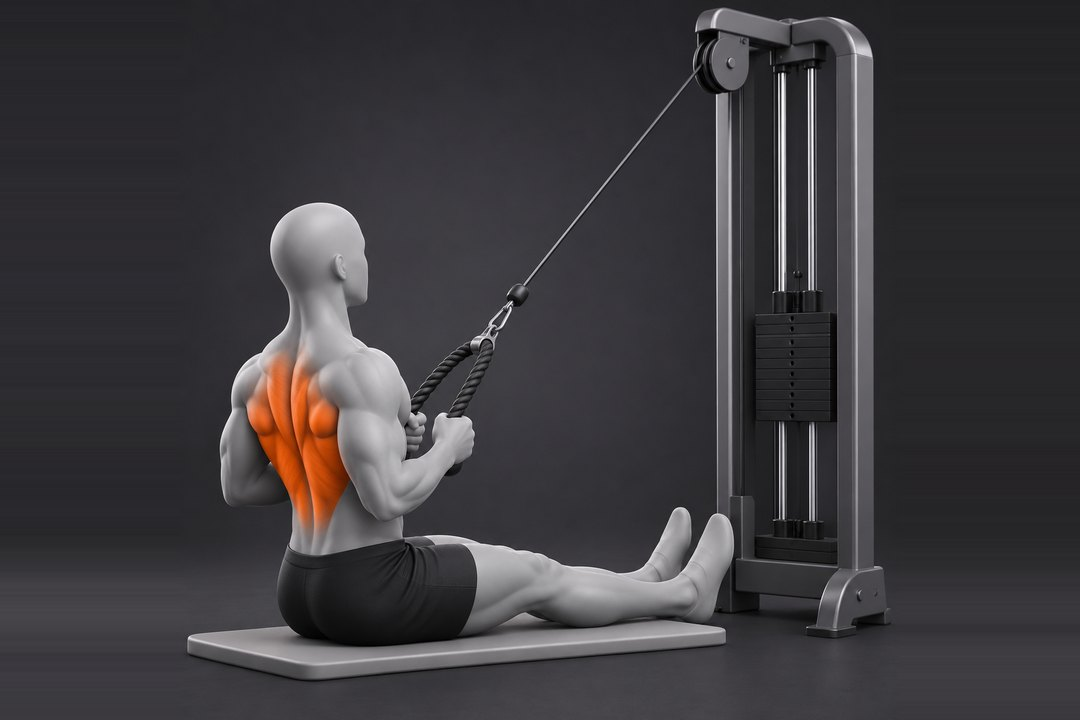
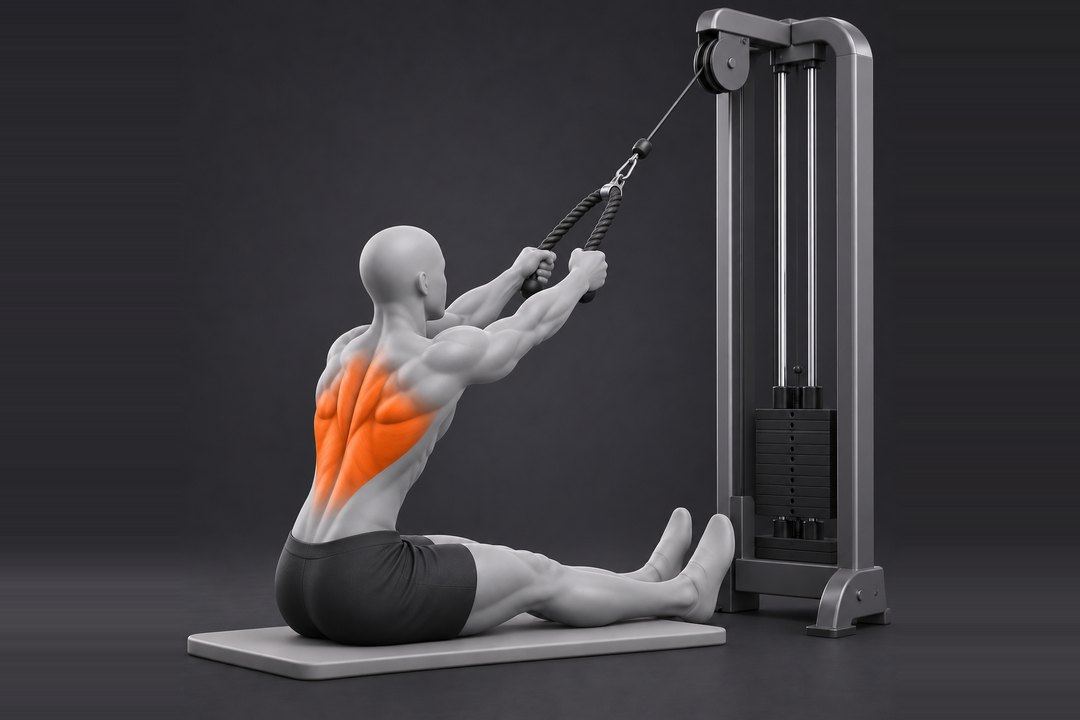
Jalón con cuerda: ilustración de la posición de inicio
Claude-Session: https://claude.ai/code/session_01CgfkCyKfkoBpyhTx3HiWJp

diff --git a/sw.js b/sw.js
@@ -1,7 +1,7 @@
 /* Service worker de Mis rutinas. Generado por tools/build-sw.js: no editar a mano.
    Precachea la app completa (código, fuentes, íconos e imágenes del catálogo) para que funcione sin conexión. */
 'use strict';
-var VERSION = 'e1f00c6b325e';
+var VERSION = '945aa8541f12';
 var CACHE = 'mis-rutinas-' + VERSION;
 var ARCHIVOS = ["index.html","app.css","app.js","runtime.js","ciclo.js","progresion.js","cronometro.js","manifest.webmanifest","fonts/archivo-latin-400-normal.woff2","fonts/archivo-latin-500-normal.woff2","fonts/archivo-latin-600-normal.woff2","fonts/archivo-latin-700-normal.woff2","fonts/archivo-latin-800-normal.woff2","fonts/archivo.css","icons/apple-touch-icon.png","icons/icon-192.png","icons/icon-512.png","icons/icon-maskable-512.png","img/abductora.jpg","img/abductora_0.jpg","img/abductora_1.jpg","img/aperturas.jpg","img/aperturas_0.jpg","img/aperturas_1.jpg","img/aperturasmanc.jpg","img/aperturasmanc_0.jpg","img/aperturasmanc_1.jpg","img/arnold.jpg","img/arnold_0.jpg","img/arnold_1.jpg","img/banca.jpg","img/banca_0.jpg","img/banca_1.jpg","img/bancacerrado.jpg","img/bancacerrado_0.jpg","img/bancacerrado_1.jpg","img/bancamanc.jpg","img/bancamanc_0.jpg","img/bancamanc_1.jpg","img/bici.jpg","img/bici_0.jpg","img/bici_1.jpg","img/buenosdias.jpg","img/buenosdias_0.jpg","img/buenosdias_1.jpg","img/bulgara.jpg","img/bulgara_0.jpg","img/bulgara_1.jpg","img/caminadora.jpg","img/caminadora_0.jpg","img/caminadora_1.jpg","img/correr.jpg","img/correr_0.jpg","img/correr_1.jpg","img/crunch.jpg","img/crunch_0.jpg","img/crunch_1.jpg","img/crunchpolea.jpg","img/crunchpolea_0.jpg","img/crunchpolea_1.jpg","img/curlbarra.jpg","img/curlbarra_0.jpg","img/curlbarra_1.jpg","img/curlcuerda.jpg","img/curlcuerda_0.jpg","img/curlcuerda_1.jpg","img/curlmanc.jpg","img/curlmanc_0.jpg","img/curlmanc_1.jpg","img/curlpolea.jpg","img/curlpolea_0.jpg","img/curlpolea_1.jpg","img/deadbug.jpg","img/deadbug_0.jpg","img/deadbug_1.jpg","img/dividida.jpg","img/dividida_0.jpg","img/dividida_1.jpg","img/dominadas.jpg","img/dominadas_0.jpg","img/dominadas_1.jpg","img/elevcolgado.jpg","img/elevcolgado_0.jpg","img/elevcolgado_1.jpg","img/elevpiernas.jpg","img/elevpiernas_0.jpg","img/elevpiernas_1.jpg","img/eliptica.jpg","img/eliptica_0.jpg","img/eliptica_1.jpg","img/escaladora.jpg","img/escaladora_0.jpg","img/escaladora_1.jpg","img/extcuad.jpg","img/extcuad_0.jpg","img/extcuad_1.jpg","img/extcuerda.jpg","img/extcuerda_0.jpg","img/extcuerda_1.jpg","img/extnuca.jpg","img/extnuca_0.jpg","img/extnuca_1.jpg","img/extpolea.jpg","img/extpolea_0.jpg","img/extpolea_1.jpg","img/facepull.jpg","img/facepull_0.jpg","img/facepull_1.jpg","img/femoral.jpg","img/femoral_0.jpg","img/femoral_1.jpg","img/femoralsent.jpg","img/femoralsent_0.jpg","img/femoralsent_1.jpg","img/flexdeclinadas.jpg","img/flexdeclinadas_0.jpg","img/flexdeclinadas_1.jpg","img/flexiones.jpg","img/flexiones_0.jpg","img/flexiones_1.jpg","img/fondos.jpg","img/fondos_0.jpg","img/fondos_1.jpg","img/fondosbanco.jpg","img/fondosbanco_0.jpg","img/fondosbanco_1.jpg","img/frances.jpg","img/frances_0.jpg","img/frances_1.jpg","img/frontal.jpg","img/frontal_0.jpg","img/frontal_1.jpg","img/frontales.jpg","img/frontales_0.jpg","img/frontales_1.jpg","img/goblet.jpg","img/goblet_0.jpg","img/goblet_1.jpg","img/hack.jpg","img/hack_0.jpg","img/hack_1.jpg","img/hiperext.jpg","img/hiperext_0.jpg","img/hiperext_1.jpg","img/hipthrust.jpg","img/hipthrust_0.jpg","img/hipthrust_1.jpg","img/inclinado.jpg","img/inclinado_0.jpg","img/inclinado_1.jpg","img/inclinadobarra.jpg","img/inclinadobarra_0.jpg","img/inclinadobarra_1.jpg","img/jalon.jpg","img/jalon_0.jpg","img/jalon_1.jpg","img/jaloncuerda.jpg","img/jaloncuerda_0.jpg","img/jaloncuerda_1.jpg","img/laterales.jpg","img/laterales_0.jpg","img/laterales_1.jpg","img/lazo.jpg","img/lazo_0.jpg","img/lazo_1.jpg","img/martillo.jpg","img/martillo_0.jpg","img/martillo_1.jpg","img/militar.jpg","img/militar_0.jpg","img/militar_1.jpg","img/pajaros.jpg","img/pajaros_0.jpg","img/pajaros_1.jpg","img/pantorrilla.jpg","img/pantorrilla_0.jpg","img/pantorrilla_1.jpg","img/pantorrillasent.jpg","img/pantorrillasent_0.jpg","img/pantorrillasent_1.jpg","img/patada.jpg","img/patada_0.jpg","img/patada_1.jpg","img/patadatri.jpg","img/patadatri_0.jpg","img/patadatri_1.jpg","img/pecdeck.jpg","img/pecdeck_0.jpg","img/pecdeck_1.jpg","img/pesomuerto.jpg","img/pesomuerto_0.jpg","img/pesomuerto_1.jpg","img/plancha.jpg","img/plancha_0.jpg","img/plancha_1.jpg","img/planchalat.jpg","img/planchalat_0.jpg","img/planchalat_1.jpg","img/pmr.jpg","img/pmr1.jpg","img/pmr1_0.jpg","img/pmr1_1.jpg","img/pmr_0.jpg","img/pmr_1.jpg","img/pmrmanc.jpg","img/pmrmanc_0.jpg","img/pmrmanc_1.jpg","img/predicador.jpg","img/predicador_0.jpg","img/predicador_1.jpg","img/prensa.jpg","img/prensa_0.jpg","img/prensa_1.jpg","img/pressmanc.jpg","img/pressmanc_0.jpg","img/pressmanc_1.jpg","img/puente.jpg","img/puente1p.jpg","img/puente1p_0.jpg","img/puente1p_1.jpg","img/puente_0.jpg","img/puente_1.jpg","img/pullover.jpg","img/pullover_0.jpg","img/pullover_1.jpg","img/pullthrough.jpg","img/pullthrough_0.jpg","img/pullthrough_1.jpg","img/remo.jpg","img/remo_0.jpg","img/remo_1.jpg","img/remoergo.jpg","img/remoergo_0.jpg","img/remoergo_1.jpg","img/remoinclmanc.jpg","img/remoinclmanc_0.jpg","img/remoinclmanc_1.jpg","img/remoinvertido.jpg","img/remoinvertido_0.jpg","img/remoinvertido_1.jpg","img/remomanc.jpg","img/remomanc_0.jpg","img/remomanc_1.jpg","img/remopolea.jpg","img/remopolea_0.jpg","img/remopolea_1.jpg","img/renegade.jpg","img/renegade_0.jpg","img/renegade_1.jpg","img/rueda.jpg","img/rueda_0.jpg","img/rueda_1.jpg","img/russian.jpg","img/russian_0.jpg","img/russian_1.jpg","img/sentadilla.jpg","img/sentadilla_0.jpg","img/sentadilla_1.jpg","img/stepup.jpg","img/stepup_0.jpg","img/stepup_1.jpg","img/trote.jpg","img/trote_0.jpg","img/trote_1.jpg","img/zancadaatras.jpg","img/zancadaatras_0.jpg","img/zancadaatras_1.jpg","img/zancadas.jpg","img/zancadas_0.jpg","img/zancadas_1.jpg"];
 
